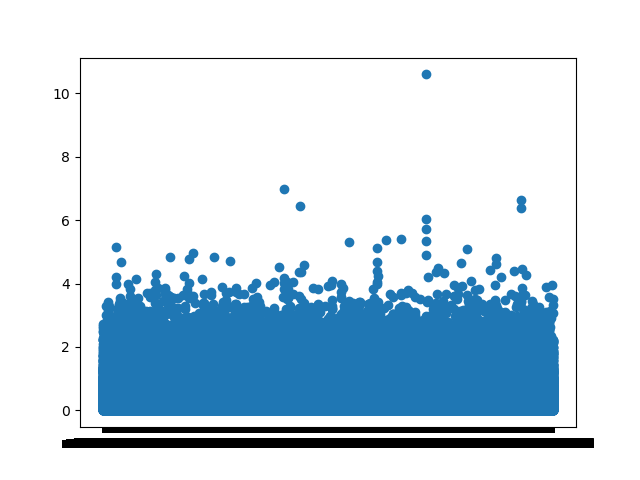
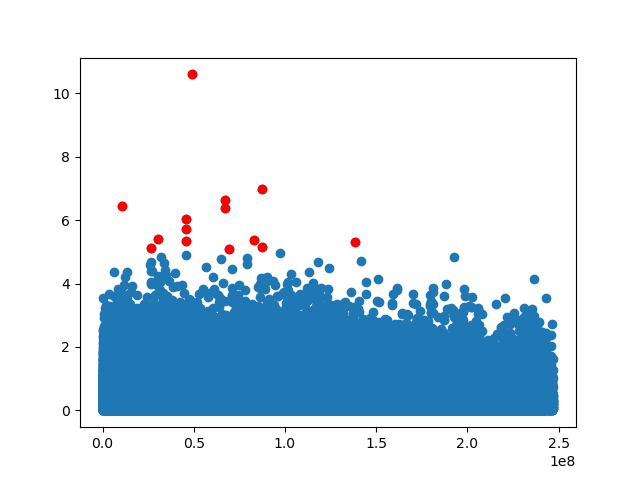
wk4hw update figures for q5 and q6

diff --git a/wk4hw/gwas_data/plot.py b/wk4hw/gwas_data/plot.py
@@ -7,7 +7,7 @@ import matplotlib.pyplot as plt
 #part2
 # cin=open(sys.argv[1])
 # comp=np.genfromtxt(cin, dtype= None,                encoding=None,names=["ID","ID2","PCA1","PCA2","PCA3"])          #use eigenvec to generate pca plot
-#
+
 # fig, ax=plt.subplots()
 #
 # ax.scatter(comp["PCA1"],comp["PCA2"],label="PCA1:2")
@@ -17,8 +17,8 @@ import matplotlib.pyplot as plt
 # ax.set_ylabel("PCA2")
 # #plt.show()
 # plt.savefig("pca12.png")
-#
-# #part3
+
+#part3
 # cin2=open(sys.argv[2])             #turn .frq into list of strings
 # fdata=[]
 # for x,line in enumerate(cin2):
@@ -29,26 +29,60 @@ import matplotlib.pyplot as plt
 #
 #
 # fdata2=np.genfromtxt(fdata, dtype=None, encoding=None,       names=['CHR','ID','A1','A2','MAF','NCHROBS'])     #use genfromtxt to make np aarray of list of strings
-#
+
 # fig2,ax2= plt.subplots()
 # plt.hist(fdata2['MAF'],label="Minor Allele Freqs")  # make plot of frequencies
 # plt.savefig("frequencies.png")
 
-# #part5?
+#part5?
 # assocfile=sys.argv[3]
 # pval=np.genfromtxt(assocfile,names=True, dtype=None, encoding=None)
-# print(pval)
 # fig,ax=plt.subplots()
-# ax.scatter(pval['SNP'],-np.log10(pval['P']))
+# ax.scatter(pval['BP'],-np.log10(pval['P']))
+# subset=pval[-np.log10(pval['P'])>5]
+# ax.scatter(subset['BP'],-np.log10(subset['P']),color="red")
 # plt.savefig('GSgwas.png')
+# plt.show()
 #
 # assocfile=sys.argv[4]
 # pval=np.genfromtxt(assocfile,names=True, dtype=None, encoding=None)
-# print(pval)
 # fig2,ax2=plt.subplots()
-# ax2.scatter(pval['SNP'],-np.log10(pval['P']))
+# ax2.scatter(pval['BP'],-np.log10(pval['P']))
+# subset2=pval[-np.log10(pval['P'])>5]
+# ax2.scatter(subset2['BP'],-np.log10(subset2['P']),color="red")
+#
 # plt.savefig('CBgwas.png')
+# plt.show()
 
-#part6
-phen=sys.argv[1]
-geno=sys.argv[2]
+# part6
+#bash arguments
+#grep rs269622 genotypes.vcf | sed 's/\t/\n/g' | grep / > gene.txt
+#sed 's/\t/_/' GS451_IC50.txt >phen.txt
+
+phen=np.genfromtxt(sys.argv[5],names=True,dtype=None,encoding=None)
+geno=np.genfromtxt(sys.argv[6],names='allele',dtype=None,encoding=None)
+
+alt=[]
+het=[]
+ref=[]
+
+for x in range(len(phen)):
+    if phen[x][1]=='NA':
+        continue
+    if geno[x][0]=='0/0':
+        ref.append(float(phen[x][1]))
+    elif geno[x][0]=='1/0' or geno[x][0]=='0/1':
+        het.append(float(phen[x][1]))
+    elif geno[x][0]=='1/1':
+        alt.append(float(phen[x][1]))
+    else:
+        pass
+
+fig,ax=plt.subplots()
+ax.set_ylabel('IC50')
+ax.set_xlabel('genotype')
+ax.set_xticklabels(labels=['0/0','1/0 or 0/1', '1/1'])
+plt.title('SNP:rs269622 effect size')
+ax.boxplot([ref,het,alt])
+plt.savefig('effectsize.png')
+plt.show()

diff --git a/wk4hw/gwas_data/readme.md b/wk4hw/gwas_data/readme.md
@@ -20,11 +20,10 @@ print(pval)
 fig,ax=plt.subplots()
 ax.scatter(pval['SNP'],pval['P'])
 plt.show()
-#this generates nothing and gets stuck in something forever but theres no loop to get stuck in.
-#finally generated figs... ran for like 30mins...
+
 #GSgwas.png and CBgwas.png
 ./plot.py pltdata.eigenvec plink.frq GSphenotyperesults.qassoc CBphenotyperesults.qassoc 
 
 6.GS  rs269622   p=0.0001018
 
-
+git add effectsize.png GSgwas.png CBgwas.png 
